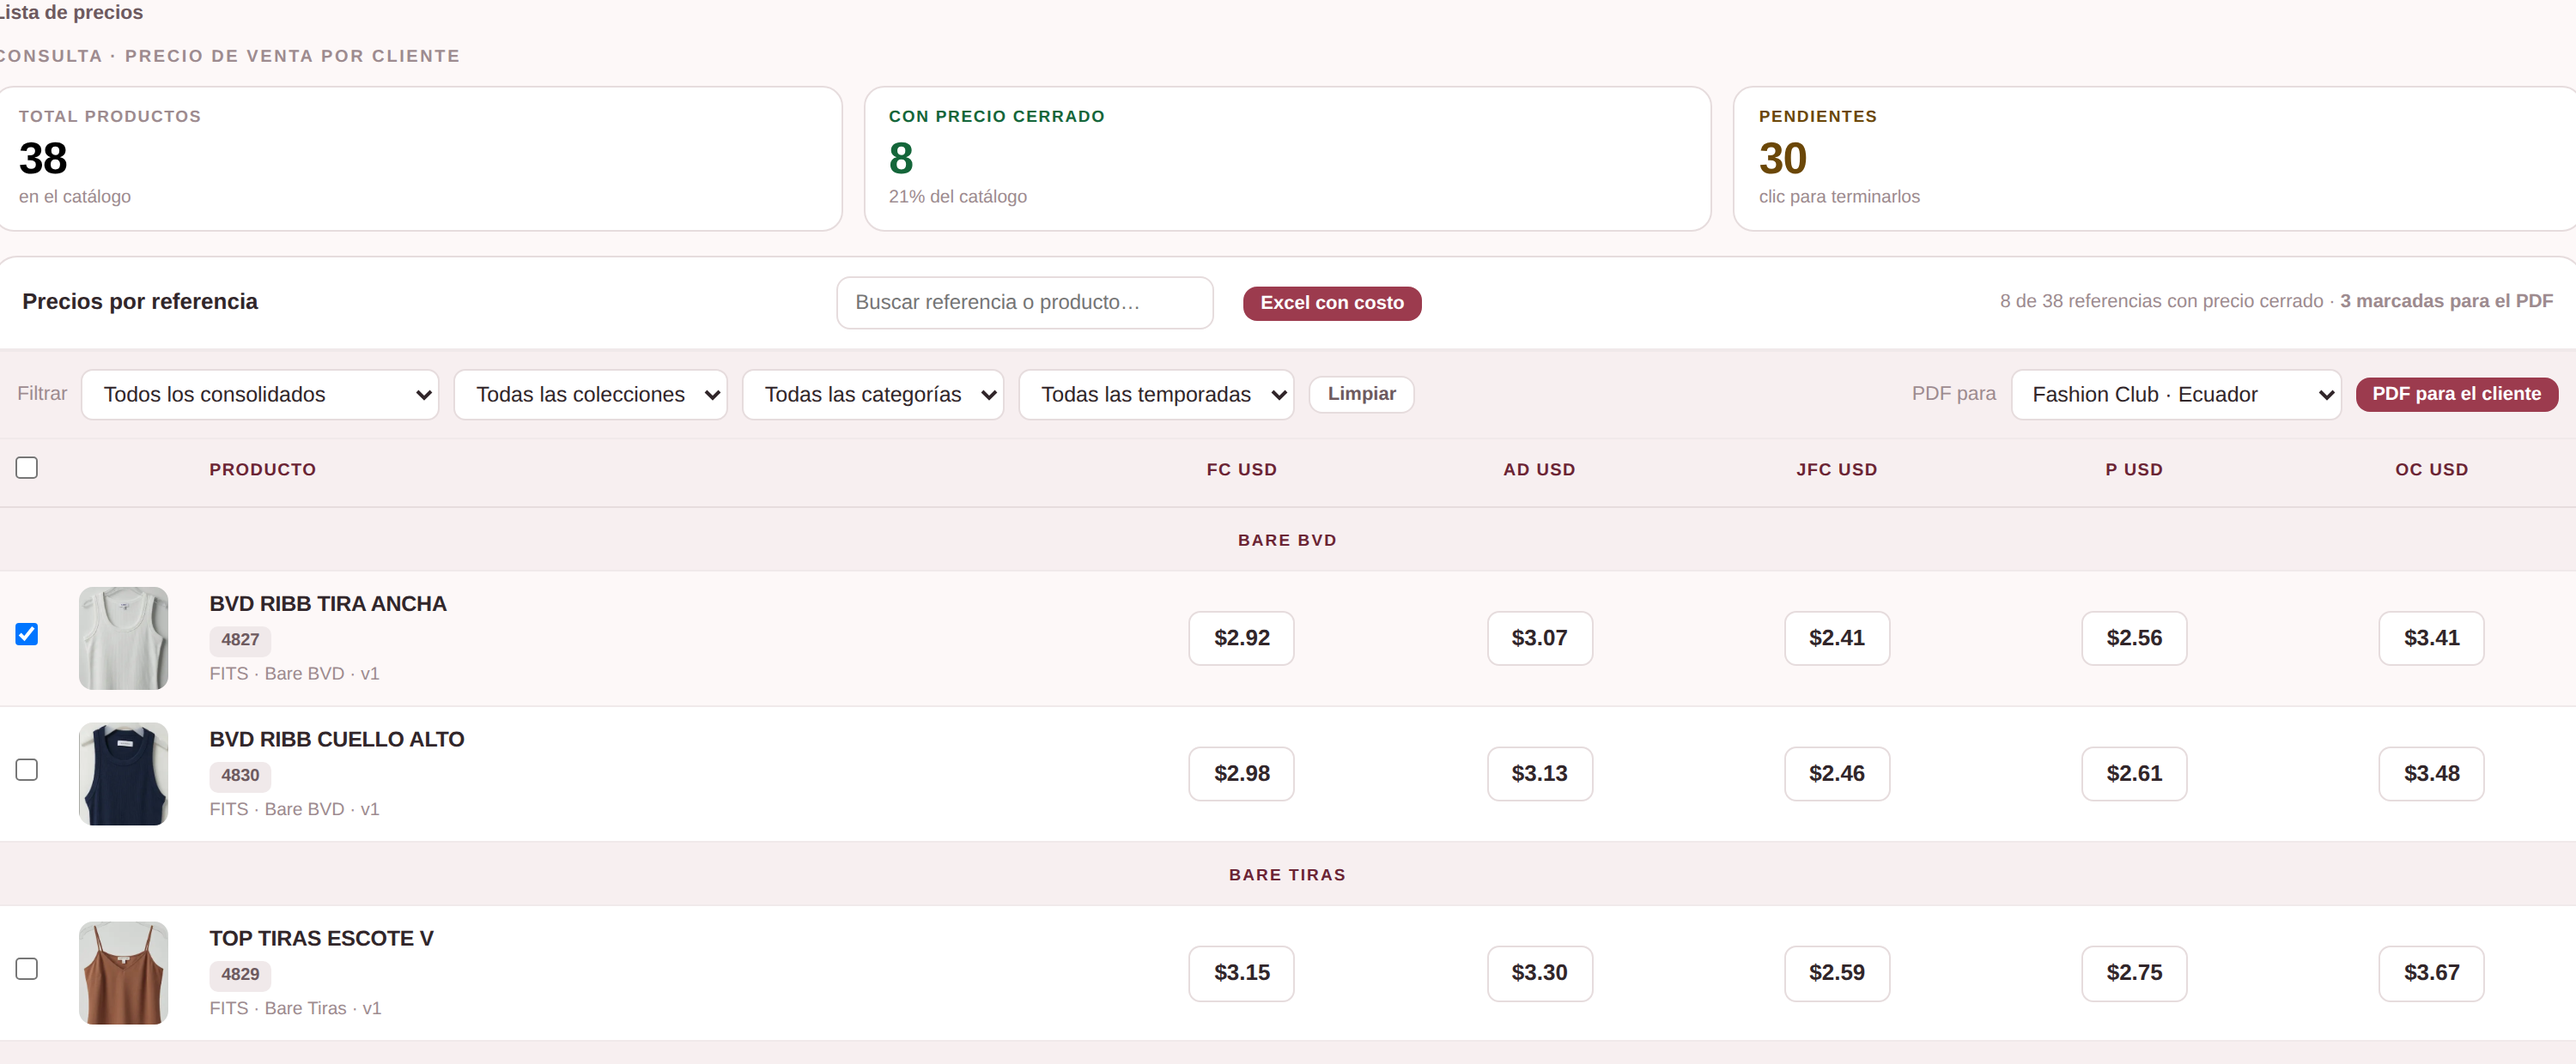
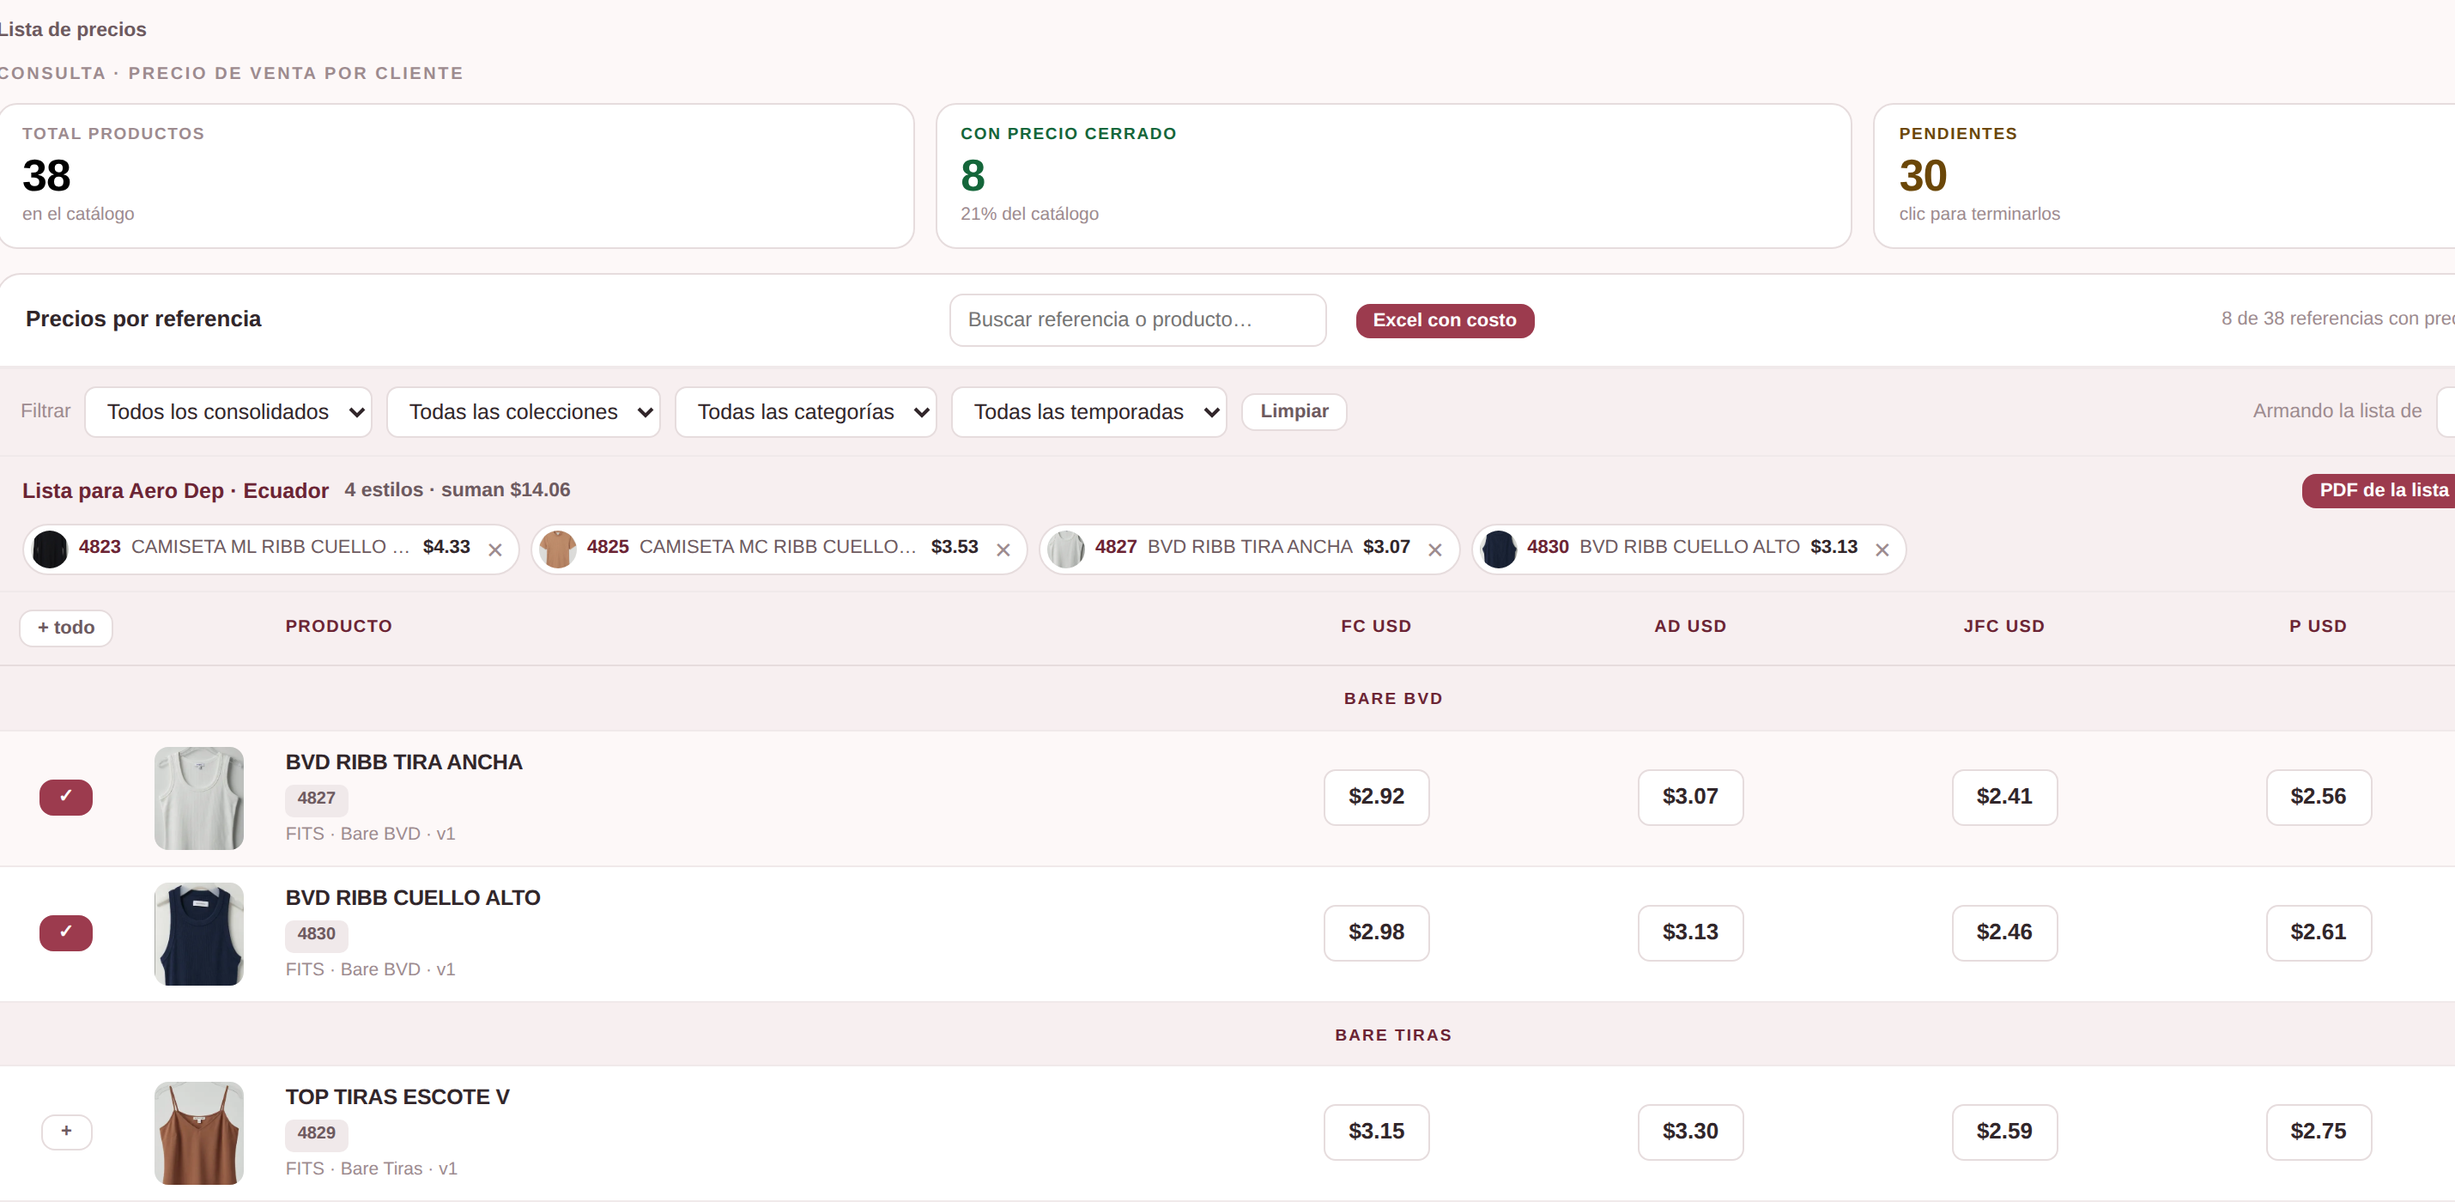
Lista de envío: se arma estilo por estilo y por cliente
- Panel arriba de la tabla con la lista del cliente elegido: cuántos
  estilos lleva, cuánto suman y una chip por estilo con foto, precio y
  la ✕ para quitarlo.
- En cada fila un botón + para añadir o ✓ para quitar, y "+ todo" para
  meter de un golpe lo que quedó en el filtro.
- Cada cliente tiene su propia lista y no se pierde al cambiar de
  filtro, de pantalla ni al recargar (se guarda en el navegador).
- "PDF de la lista" imprime solo lo que está en la lista, con el precio
  de ese cliente, y "Excel de la lista" baja lo mismo en hoja de
  cálculo, con foto y sin costos.

Claude-Session: https://claude.ai/code/session_01S6VmNmNynepNHTyWMZo4vB

diff --git a/index.html b/index.html
@@ -337,6 +337,23 @@ input.n:focus{border-color:var(--vino);outline:none}
   box-shadow:0 1px 3px var(--sombra);opacity:0;transition:opacity .12s}
 .prow:hover .edf{opacity:1}
 .edf:hover{color:var(--ink);border-color:var(--vino)}
+/* La lista que se le va a enviar al cliente: se arma estilo por estilo */
+.envio{border-bottom:1px solid var(--line-soft);background:var(--suave);padding:9px 14px}
+.envio-h{display:flex;align-items:center;gap:9px;flex-wrap:wrap}
+.envio-h .ct{font-size:12.5px;font-weight:800;color:var(--vino-deep)}
+.envio-h .tot{font-size:11.5px;color:var(--ink-2);font-weight:700}
+.envio-chips{display:flex;gap:6px;flex-wrap:wrap;margin-top:8px}
+.echip{display:inline-flex;align-items:center;gap:6px;background:var(--card);border:1px solid var(--line);
+  border-radius:20px;padding:3px 5px 3px 4px;font-size:11px;max-width:290px}
+.echip img{width:22px;height:22px;border-radius:50%;object-fit:cover;flex:none;background:var(--suave)}
+.echip b{font-weight:800;color:var(--vino-deep);flex:none}
+.echip .nm{color:var(--ink-2);overflow:hidden;text-overflow:ellipsis;white-space:nowrap}
+.echip .px{font-weight:800;flex:none}
+.echip .x{border:0;background:none;cursor:pointer;color:var(--ink-3);font-size:13px;line-height:1;padding:0 3px;flex:none}
+.echip .x:hover{color:var(--falta)}
+.envio-vacio{font-size:11.5px;color:var(--ink-3);margin-top:6px;line-height:1.45}
+.lpadd{min-width:30px;padding:4px 8px;font-size:12px;font-weight:800;line-height:1}
+.lpadd.on{background:var(--vino);color:var(--sobre);border-color:var(--vino)}
 .lpwrap{overflow-x:auto}
 .lptab{width:100%;border-collapse:collapse}
 .lptab thead th{background:var(--suave);color:var(--vino-deep);font-size:10px;letter-spacing:.07em;text-transform:uppercase;
@@ -1105,10 +1122,10 @@ textarea.ta:focus{border-color:var(--vino);outline:none}
       <select id="lp-f-cat" class="fld" style="width:auto" onchange="rowsLista()"></select>
       <select id="lp-f-temp" class="fld" style="width:auto" onchange="rowsLista()"></select>
       <button class="btn ghost sm" onclick="limpiarFiltroLp()">Limpiar</button>
-      <span class="mini" style="margin:0 0 0 auto">PDF para</span>
-      <select id="lp-cli" class="fld" style="width:auto" title="De qué cliente sale el precio que va en el PDF"></select>
-      <button class="btn org sm" onclick="pdfListaCliente()" title="Una hoja con la foto, la referencia y el precio de ese cliente: lo marcado, o todo lo que quedó en el filtro">PDF para el cliente</button>
+      <span class="mini" style="margin:0 0 0 auto">Armando la lista de</span>
+      <select id="lp-cli" class="fld" style="width:auto" title="Cada cliente tiene su propia lista" onchange="cambiarCliLp()"></select>
     </div>
+    <div id="lp-envio" class="envio"></div>
     <div class="lpwrap"><table class="lptab">
       <thead id="lp-head"></thead>
       <tbody id="lp-body"></tbody>
@@ -5787,7 +5804,58 @@ function abbr(s){return s.split(/\s+/).map(w=>w[0]).join('').toUpperCase().slice
 /* ====== LISTA DE PRECIOS ======
    La misma pantalla sirve para consultar y para armar el PDF del cliente: se
    filtra, se marca lo que va, y sale la hoja con foto, referencia y precio. */
-let SELLP=new Set();
+let SELLP=new Set(),ENVIOS={},ENVIOS_OK=false;
+/* Cada cliente tiene su propia lista. Se guarda en este navegador para que no
+   se pierda al recargar: son solo referencias, no toca nada del catálogo. */
+function cargarEnvios(){
+  if(ENVIOS_OK)return;ENVIOS_OK=true;
+  try{const t=localStorage.getItem('cst_envios');if(t)ENVIOS=JSON.parse(t)||{}}catch(e){ENVIOS={}}
+}
+function guardarEnvios(){
+  try{const o={};Object.keys(ENVIOS).forEach(k=>{const v=[...ENVIOS[k]];if(v.length)o[k]=v});
+    localStorage.setItem('cst_envios',JSON.stringify(o))}catch(e){}
+}
+function cliLp(){const e=$('lp-cli');return (e&&e.value)||(CLI[0]&&CLI[0].id)||''}
+function listaEnvio(){
+  cargarEnvios();const id=cliLp();
+  if(!(ENVIOS[id] instanceof Set))ENVIOS[id]=new Set(ENVIOS[id]||[]);
+  SELLP=ENVIOS[id];
+  return SELLP;
+}
+function cambiarCliLp(){listaEnvio();rowsLista()}
+function vaciarEnvio(){
+  const n=listaEnvio().size;
+  if(!n)return;
+  if(!confirm('¿Quitar las '+n+' referencias de la lista de '+nombreCliLp()+'?'))return;
+  SELLP.clear();guardarEnvios();rowsLista();
+  toast('Lista vacía','Puedes empezar a armarla otra vez.');
+}
+function nombreCliLp(){const c=CLI.find(c=>c.id===cliLp());return c?c.cli+' · '+c.zona:'—'}
+/* El panel de arriba: qué llevo en la lista de este cliente y cuánto suma */
+function pintarEnvio(){
+  const e=$('lp-envio');if(!e)return;
+  const sel=listaEnvio();
+  const g=cur;let total=0;
+  const ci=Math.max(0,CLI.findIndex(c=>c.id===cliLp()));
+  const chips=[...sel].map(r=>byRef(r)).filter(Boolean).map(x=>{
+    cur=x.r;calc();const px=plCalc(ci).pvp;total+=px||0;
+    return `<span class="echip" title="${escR(x.n)}">${FOTO[x.r]?`<img src="${escR(FOTO[x.r])}">`:''}
+      <b>${escR(x.r)}</b><span class="nm">${escR(x.n)}</span><span class="px">${fmt(px)}</span>
+      <button class="x" title="Quitar de la lista" onclick="toggleLp('${escR(x.r)}',false)">✕</button></span>`;
+  }).join('');
+  cur=g;calc();
+  const n=sel.size;
+  e.innerHTML=`<div class="envio-h">
+      <span class="ct">Lista para ${escR(nombreCliLp())}</span>
+      <span class="tot">${n} estilo${n===1?'':'s'}${n?' · suman '+fmt(total):''}</span>
+      <span style="margin-left:auto"></span>
+      <button class="btn org sm" ${n?'':'disabled'} onclick="pdfListaCliente()" title="Una hoja con la foto, la referencia y el precio de este cliente">PDF de la lista</button>
+      <button class="btn sm" ${n?'':'disabled'} onclick="xlsxEnvio()" title="La misma lista en Excel">Excel de la lista</button>
+      <button class="btn ghost sm" ${n?'':'disabled'} onclick="vaciarEnvio()">Vaciar</button>
+    </div>
+    ${n?`<div class="envio-chips">${chips}</div>`
+      :`<div class="envio-vacio">Todavía no has añadido nada. Busca o filtra abajo y pulsa <b>+</b> en cada estilo que le vas a enviar a ${escR(nombreCliLp())}. La lista se queda guardada aunque cambies de filtro o cierres la página.</div>`}`;
+}
 function lpLista(){
   const q=($('lp-q')&&$('lp-q').value||'').toLowerCase();
   const v=id=>($(id)&&$(id).value)||'';
@@ -5800,18 +5868,21 @@ function limpiarFiltroLp(){
   ['lp-q','lp-f-cons','lp-f-col','lp-f-cat','lp-f-temp'].forEach(id=>{const e=$(id);if(e)e.value=''});
   rowsLista();
 }
-function toggleLp(r,v){if(v)SELLP.add(r);else SELLP.delete(r);pintarSubLp()}
+function toggleLp(r,v){
+  const sel=listaEnvio();
+  if(v)sel.add(r);else sel.delete(r);
+  guardarEnvios();rowsLista();
+}
 function toggleAllLp(v){
-  const rs=lpLista().map(x=>x.r);
-  if(v)rs.forEach(r=>SELLP.add(r));else rs.forEach(r=>SELLP.delete(r));
-  rowsLista();
+  const rs=lpLista().map(x=>x.r),sel=listaEnvio();
+  if(v)rs.forEach(r=>sel.add(r));else rs.forEach(r=>sel.delete(r));
+  guardarEnvios();rowsLista();
 }
 function pintarSubLp(){
-  const lista=lpLista(),marcadas=lista.filter(x=>SELLP.has(x.r)).length;
+  const lista=lpLista(),sel=listaEnvio(),marcadas=lista.filter(x=>sel.has(x.r)).length;
   if($('lp-s'))$('lp-s').innerHTML=lista.length+' de '+REFS.length+' referencias con precio cerrado'
-    +(marcadas?' · <b>'+marcadas+' marcada'+(marcadas===1?'':'s')+' para el PDF</b>':'');
-  const all=$('lp-all');
-  if(all)all.checked=lista.length>0&&lista.every(x=>SELLP.has(x.r));
+    +(marcadas?' · <b>'+marcadas+' de la lista est'+(marcadas===1?'á':'án')+' aquí</b>':'');
+  pintarEnvio();
 }
 function rowsLista(){
   /* los desplegables se arman con lo que de verdad hay en el catálogo */
@@ -5827,12 +5898,15 @@ function rowsLista(){
   if(sc){const v=sc.value;sc.innerHTML=CLI.map(c=>`<option value="${c.id}">${escR(c.cli)} · ${escR(c.zona)}</option>`).join('');
     if(CLI.some(c=>c.id===v))sc.value=v;}
 
-  $('lp-head').innerHTML='<tr><th style="width:34px"><input type="checkbox" id="lp-all" title="Marcar todo lo que está en el filtro" onchange="toggleAllLp(this.checked)"></th>'
+  const g=cur;let vis=0;
+  const list=lpLista(),sel=listaEnvio();
+  sel.forEach(r=>{if(!byRef(r))sel.delete(r)});
+  const todas=list.length>0&&list.every(x=>sel.has(x.r));
+  $('lp-head').innerHTML=`<tr><th style="width:62px"><button class="btn ghost sm" id="lp-all"
+      title="${todas?'Quitar de la lista todo lo que está en el filtro':'Añadir a la lista todo lo que está en el filtro'}"
+      onclick="toggleAllLp(${todas?'false':'true'})">${todas?'− todo':'+ todo'}</button></th>`
     +'<th class="l" style="width:52px"></th><th class="l">Producto</th>'+
     CLI.map(c=>`<th title="${c.cli} · ${c.zona}">${abbr(c.cli)} USD</th>`).join('')+'</tr>';
-  const g=cur;let vis=0;
-  const list=lpLista();
-  SELLP.forEach(r=>{if(!byRef(r))SELLP.delete(r)});
   const cols=CLI.length+3;
   const grupos={};list.forEach(x=>{(grupos[x.sub]=grupos[x.sub]||[]).push(x)});
   let rows='';
@@ -5846,7 +5920,8 @@ function rowsLista(){
         return `<td><span class="lppx${r.pvp?'':' cero'}" title="${r.pvp?'Precio de la v'+f.ver+' · guardada '+f.fecha:'Sin precio: la ficha todavía no tiene costo'}">${fmt(r.pvp)}</span></td>`;
       }).join('');
       rows+=`<tr>
-        <td><input type="checkbox" class="lpsel" ${SELLP.has(x.r)?'checked':''} onchange="toggleLp('${x.r}',this.checked)"></td>
+        <td><button class="btn ghost sm lpadd ${sel.has(x.r)?'on':''}" onclick="toggleLp('${x.r}',${sel.has(x.r)?'false':'true'})"
+          title="${sel.has(x.r)?'Quitar de la lista de '+escR(nombreCliLp()):'Añadir a la lista de '+escR(nombreCliLp())}">${sel.has(x.r)?'✓':'+'}</button></td>
         <td><div class="lpth" ${FOTO[x.r]?`data-zoom="${escR(FOTO[x.r])}" data-zoom-t="${escR(x.r)} · ${escR(x.n)}"`:''}>${FOTO[x.r]?`<img src="${FOTO[x.r]}">`:'<div class="nof">sin foto</div>'}</div></td>
         <td class="l" style="text-align:left">
           <div class="lpnm">${x.n}</div>
@@ -5862,10 +5937,9 @@ function rowsLista(){
 }
 /* El PDF que se le manda al cliente: lo marcado, o todo lo que quedó filtrado. */
 function pdfListaCliente(){
-  const lista=lpLista();
-  const marcadas=lista.filter(x=>SELLP.has(x.r));
-  const list=marcadas.length?marcadas:lista;
-  if(!list.length){toast('Nada que imprimir','No hay referencias con ese filtro.');return}
+  const sel=listaEnvio();
+  const list=activos().filter(x=>sel.has(x.r)&&FICHAS[x.r].saved);
+  if(!list.length){toast('La lista está vacía','Pulsa + en los estilos que le vas a enviar a este cliente.');return}
   const id=($('lp-cli')&&$('lp-cli').value)||(CLI[0]&&CLI[0].id);
   const ci=CLI.findIndex(c=>c.id===id);
   const c=CLI[ci<0?0:ci];
@@ -5881,18 +5955,13 @@ function pdfListaCliente(){
         <div class="p">${fmt(r.pvp)}<small>USD</small></div></div></div>`}).join('')
   ).join('');
   cur=g;calc();
-  const filtro=[['Consolidado',$('lp-f-cons')&&nombreCons($('lp-f-cons').value)],
-    ['Colección',$('lp-f-col')&&$('lp-f-col').value],
-    ['Categoría',$('lp-f-cat')&&$('lp-f-cat').value],
-    ['Temporada',$('lp-f-temp')&&$('lp-f-temp').value]]
-    .filter(([t,v])=>v).map(([t,v])=>t+': '+v).join(' · ');
   $('print-area').innerHTML=`<div class="pdf-h"><h1>Lista de precios · TEMPO</h1>
     <span class="c">${escR(c.cli)} · ${escR(c.zona)}</span>
-    <span class="d">${hoy()} · ${list.length} referencia${list.length===1?'':'s'}${filtro?' · '+escR(filtro):''}</span></div>
+    <span class="d">${hoy()} · ${list.length} referencia${list.length===1?'':'s'}</span></div>
     <div class="pdf-g">${cards}</div>
     <div class="pdf-foot">Precios en USD por prenda · TEMPOCODECA S.A.</div>`;
   toast('Abriendo el PDF para '+c.cli,
-    (marcadas.length?list.length+' marcada(s)':'las '+list.length+' del filtro')+'. En la ventana de impresión elige "Guardar como PDF".');
+    list.length+' estilo(s) de la lista. En la ventana de impresión elige "Guardar como PDF".');
   setTimeout(()=>window.print(),250);
 }
 function exportarBOM(){
@@ -6262,6 +6331,53 @@ async function xlsxPrecios(){
     document.body.appendChild(a);a.click();document.body.removeChild(a);
     toast('Lista de precios generada',
       lib.nombre+' · '+list.length+' productos, '+CLI.length+' clientes y '+lib.fotos+' fotos.'+
+      (sinFoto?' '+sinFoto+' foto(s) no se pudieron leer.':''));
+  }catch(e){toast('No se pudo descargar',String((e&&e.message)||e))}
+  return lib;
+}
+
+/* ====== EXCEL DE LA LISTA DE ENVÍO ======
+   Lo mismo que el PDF, pero en hoja de cálculo: una fila por estilo con la
+   foto y el precio de ese cliente, para pegarlo en el correo o en el formato
+   que pida la marca. */
+async function xlsxEnvio(){
+  const sel=listaEnvio();
+  const list=activos().filter(x=>sel.has(x.r)&&FICHAS[x.r].saved);
+  if(!list.length){toast('La lista está vacía','Pulsa + en los estilos que le vas a enviar a este cliente.');return}
+  const ci=Math.max(0,CLI.findIndex(c=>c.id===cliLp())),c=CLI[ci];
+  if(!c){toast('Falta el cliente','Crea un cliente en Configuración.');return}
+  const g=cur,fl=[],altos={};
+  fl.push([{v:'LISTA DE PRECIOS · TEMPO',s:5},'','',{v:'generado el '+hoy(),s:1}]);
+  fl.push([{v:c.cli+' · '+c.zona,s:4}]);
+  fl.push([]);
+  fl.push(['FOTO','REFERENCIA','PRODUCTO','CATEGORÍA','TIPO','COLECCIÓN','TEMPORADA','PVP USD']
+    .map(t=>({v:t,s:3})));
+  const conFoto=[];let total=0;
+  list.forEach(x=>{
+    cur=x.r;calc();const px=plCalc(ci).pvp;total+=px||0;
+    const r=fl.length+1;
+    fl.push(['',x.r,x.n,x.cat||'',x.sub||'',x.col||'',x.temporada||'',{v:px,s:2}]);
+    altos[r]=54;
+    if(FOTO[x.r])conFoto.push({ref:x.r,fila:r-1});
+  });
+  fl.push([]);
+  fl.push(['','','','','','',{v:'TOTAL',s:3},{v:total,s:2}]);
+  cur=g;calc();
+  marcaSave('Armando la lista…','');
+  const fotos=[];let sinFoto=0;
+  for(const f of conFoto){
+    const im=await fotoParaExcel(FOTO[f.ref],64);
+    if(im)fotos.push({datos:im.datos,ancho:im.ancho,alto:im.alto,col:0,fila:f.fila,dx:3,dy:3});
+    else sinFoto++;
+  }
+  estadoOk();
+  const hoja={nombre:'LISTA',filas:fl,anchos:[11,13,40,17,17,17,15,13],altos,fotos};
+  const lib=libroXlsx([hoja],'TEMPO_Lista_'+c.cli.replace(/[^A-Za-z0-9]+/g,'_')+'_'+
+    new Date().toISOString().slice(0,10)+'.xlsx');
+  try{
+    const a=document.createElement('a');a.href=URL.createObjectURL(lib.blob);a.download=lib.nombre;
+    document.body.appendChild(a);a.click();document.body.removeChild(a);
+    toast('Lista generada',lib.nombre+' · '+list.length+' estilo(s) y '+lib.fotos+' foto(s).'+
       (sinFoto?' '+sinFoto+' foto(s) no se pudieron leer.':''));
   }catch(e){toast('No se pudo descargar',String((e&&e.message)||e))}
   return lib;
